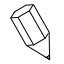
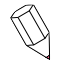
proof of concept - editing and sync with couchdb seem to work in both chrome and safari

diff --git a/index.js b/index.js
@@ -1,38 +1,181 @@
 (function() {
-"use strict";
-console.log('LEAN IN!');
-var PouchDB = require('pouchdb'),
-    db = new PouchDB('lean-in'),
-    DOM = require('./dom.js'),
-    R = require('./resources.js');
+	"use strict";
+	console.log('LEAN IN!');
+	
+	var instanceId = 'DEV',
+		syncURL = 'http://127.0.0.1:5984/leanin',
+		PouchDB = require('pouchdb'),
+	    db = new PouchDB('lean-in'),
+	    DOM = require('./dom.js'),
+	    R = require('./resources.js');
+	
+	window.leanin = {};
+	window.leanin[instanceId] = {
+			db: db,
+			pouchdb: PouchDB,
+			dom: DOM
+	};
+	
+	function toggleClass(elem, c) {
+		var currentClass = elem.getAttribute('class');
+		if (-1 == currentClass.indexOf(c)) {
+			currentClass += ' '+c;
+		} else {
+			currentClass = currentClass.replace(' '+c, '');
+			currentClass = currentClass.replace(c, '');
+		}
+		elem.setAttribute('class', currentClass);
+	}
+	
+	function addClass(elem, c) {
+		var currentClass = elem.getAttribute('class');
+		if (-1 == currentClass.indexOf(c)) {
+			currentClass += ' '+c;
+			currentClass = currentClass.replace(c, '');
+			elem.setAttribute('class', currentClass);
+		}
+	}
 
-DOM.appendToHead(DOM.link({rel:'stylesheet', href:R.css}));
-DOM.appendToBody(DOM.div({'class':'lean-in-tab'}, DOM.div({'class':'icon'}), DOM.div({'class':'content', id:'lean-in-content'})));
+	function removeClass(elem, c) {
+		var currentClass = elem.getAttribute('class');
+		if (-1 != currentClass.indexOf(c)) {
+			currentClass = currentClass.replace(' '+c, '');
+			currentClass = currentClass.replace(c, '');
+			elem.setAttribute('class', currentClass);
+		}
+	}
+	
+	
+	function classToggler(c) {
+		return function() {
+			return toggleClass(this, c);
+		};
+	}
+	
+	function removeAll() {
+		db.allDocs({include_docs:true}, 
+				function(err,res) {
+					var rows = res.rows;
+					for (var i=0,n=rows.length;i<n;++i) {
+						console.log("remove: ", rows[i]);
+						db.remove(res.rows[i].doc, function(err,res){ 
+							console.log(err); 
+						}); 
+					} 
+				}
+		);
+	}
+	
+	function syncAll() {
+		db.replicate.from(syncURL);
+		db.replicate.to(syncURL);
+	}
+	
+	DOM.appendToHead(DOM.link({rel:'stylesheet', href:R.css}));
+	DOM.appendToBody(
+			DOM.div(
+					{'class':'lean-in-tab', 'onclick':classToggler('hover') }, 
+					DOM.div({'class':'icon'}), 
+					DOM.div({'class':'content'},
+							DOM.div(
+									DOM.div(
+										DOM.button({onclick:removeAll}, 'Remove All'),
+										DOM.button({onclick:syncAll}, 'Sync All')
+									),
+									DOM.form(
+											{onsubmit: function(e) { e.preventDefault(); saveItem(this); return false; } },
+											DOM.textarea({name:'comment'}),
+											DOM.div(
+												DOM.button({type:'submit'}, 'create new')
+											)
+									)
+							),
+							DOM.div({id:'lean-in-content'})
+					)
+			));
+	
+	function removeItem(oldDoc) {
+		db.remove(oldDoc);
+	}
 
-function addContent(doc) {
-	DOM.append(
-		DOM.byId('lean-in-content'),
-		DOM.div(
-			DOM.h1(doc.date),
-			DOM.div(doc.url)
-		)
-	);
-}
-
-db.post({
-     date: new Date().toString(),
-     url: document.location.href
-});
-
-db.changes({
-    include_docs: true,
-    live: true
-}).on('change', function(entry) {
-    console.log('Ch-Ch-Changes', entry.doc);
-    addContent(entry.doc);
-    //var doc = entry.doc;
-    //document.write('<h1><span>'+doc.date+'</span><span>'+doc.url+'</span></h1>');
-});
-
-// db.replicate.to('http://example.com/mydb');
+	function saveItem(form, oldDoc) {
+		var doc = oldDoc || {};
+		
+		if (!doc.date) {
+			doc.date = new Date().toString();
+		}
+		
+		if (!doc._id) {
+			doc._id = instanceId +'_'+ doc.date + '/'+Math.floor(Math.random()*10000); //TODO: + user
+		}
+		
+		if (!doc.url) {
+			doc.url = document.location.href;
+		}
+		
+		var elem = form.firstChild;
+		while (null != elem) {
+			if (elem.getAttribute('name')) {
+				doc[elem.getAttribute('name')] = elem.value;
+			}
+			elem = elem.nextSibling;
+		}
+		if (null != doc.comment) {
+			db.put(doc);
+		}
+	}
+	
+	function editItem(doc) {
+		var saveHandler = function(e) { 
+			e.preventDefault(); 
+			saveItem(this, doc); 
+			return false; 
+		};
+		DOM.replace(
+				DOM.byId(doc._id),
+				DOM.div(
+						{id:doc._id},
+						DOM.h1(doc.date),
+						DOM.form({onsubmit:saveHandler },
+							DOM.textarea({name:'comment'},''+(doc.comment||doc.url)),
+							DOM.button({type:'submit'}, 'save')
+						)
+					)
+		);
+	}
+	
+	function addedContent(doc) {
+		if (!doc._deleted) {
+			var newItem = DOM.div(
+					{id:doc._id},					
+					DOM.h1(doc.date),
+					DOM.div(doc.comment||doc.url),
+					DOM.button({onclick:editItem.bind(null,doc)}, 'edit'),
+					DOM.button({onclick:removeItem.bind(null,doc)}, 'delete')
+				),
+				oldItem = DOM.byId(doc._id);
+			
+			if (oldItem) {
+				DOM.replace(oldItem, newItem);
+			} else {
+				DOM.append(DOM.byId('lean-in-content'), newItem);
+			}
+			
+			
+		} else {
+			DOM.remove(DOM.byId(doc._id));
+		}
+	}
+	
+	db.changes({
+	    include_docs: true,
+	    live: true
+	}).on('change', function(entry) {
+	    console.log('Ch-Ch-Changes', entry.doc);
+	    addedContent(entry.doc);
+	    //var doc = entry.doc;
+	    //document.write('<h1><span>'+doc.date+'</span><span>'+doc.url+'</span></h1>');
+	});
+	
+	// db.replicate.to('http://example.com/mydb');
 })();

diff --git a/dom.js b/dom.js
@@ -7,14 +7,21 @@ DOM._element = function(name) {
 	var elem = document.createElement(name);
 	for (var i = 1, n = arguments.length; i < n; ++i) {
 		var thisOne = arguments[i];
-		if (typeof thisOne == 'string') {
+		if (typeof thisOne == 'undefined') { 
+			// ignore undefined node
+		} else if (typeof thisOne == 'string') {
 			elem.appendChild(document.createTextNode(thisOne));
 		} else if (null != thisOne.nodeName) {
 			elem.appendChild(thisOne);
 		} else if (typeof thisOne == 'object') {
 			for (var x in thisOne) {
 				if (thisOne.hasOwnProperty(x)) {
-					elem.setAttribute(x, thisOne[x]);
+					if (typeof thisOne[x] == 'function' && 0 == x.indexOf('on')) {
+						//elem[x] = thisOne[x];
+						elem.addEventListener(x.substring(2), thisOne[x], false);
+					} else {
+						elem.setAttribute(x, thisOne[x]);
+					}
 				}
 			}
 		}
@@ -22,7 +29,7 @@ DOM._element = function(name) {
 	return elem;
 };
 
-var tags = "div span input style script link button input textarea h1 h2 h3 h4".split(' ');
+var tags = "div span input style script link button form input textarea button h1 h2 h3 h4".split(' ');
 for (var i = 0, n = tags.length; i < n; ++i) {
 	var thisOne = tags[i];
 	DOM[thisOne] = DOM._element.bind(DOM, thisOne);
@@ -36,6 +43,16 @@ DOM.appendToBody = function(elem) {
 };
 DOM.appendToHead = function(elem) {
 	DOM.append(document.head, elem);
+};
+DOM.replace = function (to, elem) {
+	if (null != to && null != elem) {
+		to.parentNode.replaceChild(elem, to);
+	}
+};
+DOM.remove = function (elem) {
+	if (null != elem) {
+		elem.parentNode.removeChild(elem);
+	}
 };
 DOM.byId = function(id) {
 	return document.getElementById(id);

diff --git a/styles.css b/styles.css
@@ -1,40 +1,54 @@
 div.lean-in-tab {
-    position: absolute;
+    position: fixed;
     top:15%;
     left:0;
-    z-index: 1;
+    z-index: 700001;
+    width: 100%;
+    padding: 0;
 }
 div.lean-in-tab .icon {
-    background-image: url(resource/leaning-pencil-2b.png);
 	position: absolute;
     top:15%;
     left:0;
-    z-index:2;
+    z-index:700004;
     height: 32px;
     width: 32px;
     box-shadow: 2px 2px 2px 2px rgba(0,0,0,0.3);
+    background-image: url(resource/leaning-pencil-2b.png);
+    background-color: #fff;
     background-size: cover;
+    padding: 0;
 }
-div.lean-in-tab:hover .icon {
+div.lean-in-tab:hover .icon, div.lean-in-tab.hover .icon {
     background-image: url('resource/leaning-pencil-1b.png');
+    box-shadow: none;
 }
+
+div.lean-in-tab.hover .icon {
+	background-color: #cfc;
+}
+
+div.lean-in-tab.hascontent .icon {
+	background-color: #ffc;
+}
+
 div.lean-in-tab .content {
     position: absolute;
-    width: 75%;
+    width: 70%;
     left: -100%;
     top: 15%;
+	height: 30px;
     box-shadow: 2px 2px 2px 2px rgba(0,0,0,0.3);
-    z-index:3;
+    z-index:700003;
     background: #fff;
-	height: 300px;
     overflow:auto;
-    transition: left,height 1s ease 0;
+    transition: left,height 1s ease 1s;
 }
-div.lean-in-tab:hover .content {
-    position: absolute;
-    top: 0;
-    width: 70%;
-    left: 30px;
+div.lean-in-tab:hover .content, div.lean-in-tab.hover .content {
+    left: 0;
+    padding-left: 32px;
+	height: 300px;
     transition-duration: 0.5s;
+    transition-delay: 0s;
     display:block;
 }
